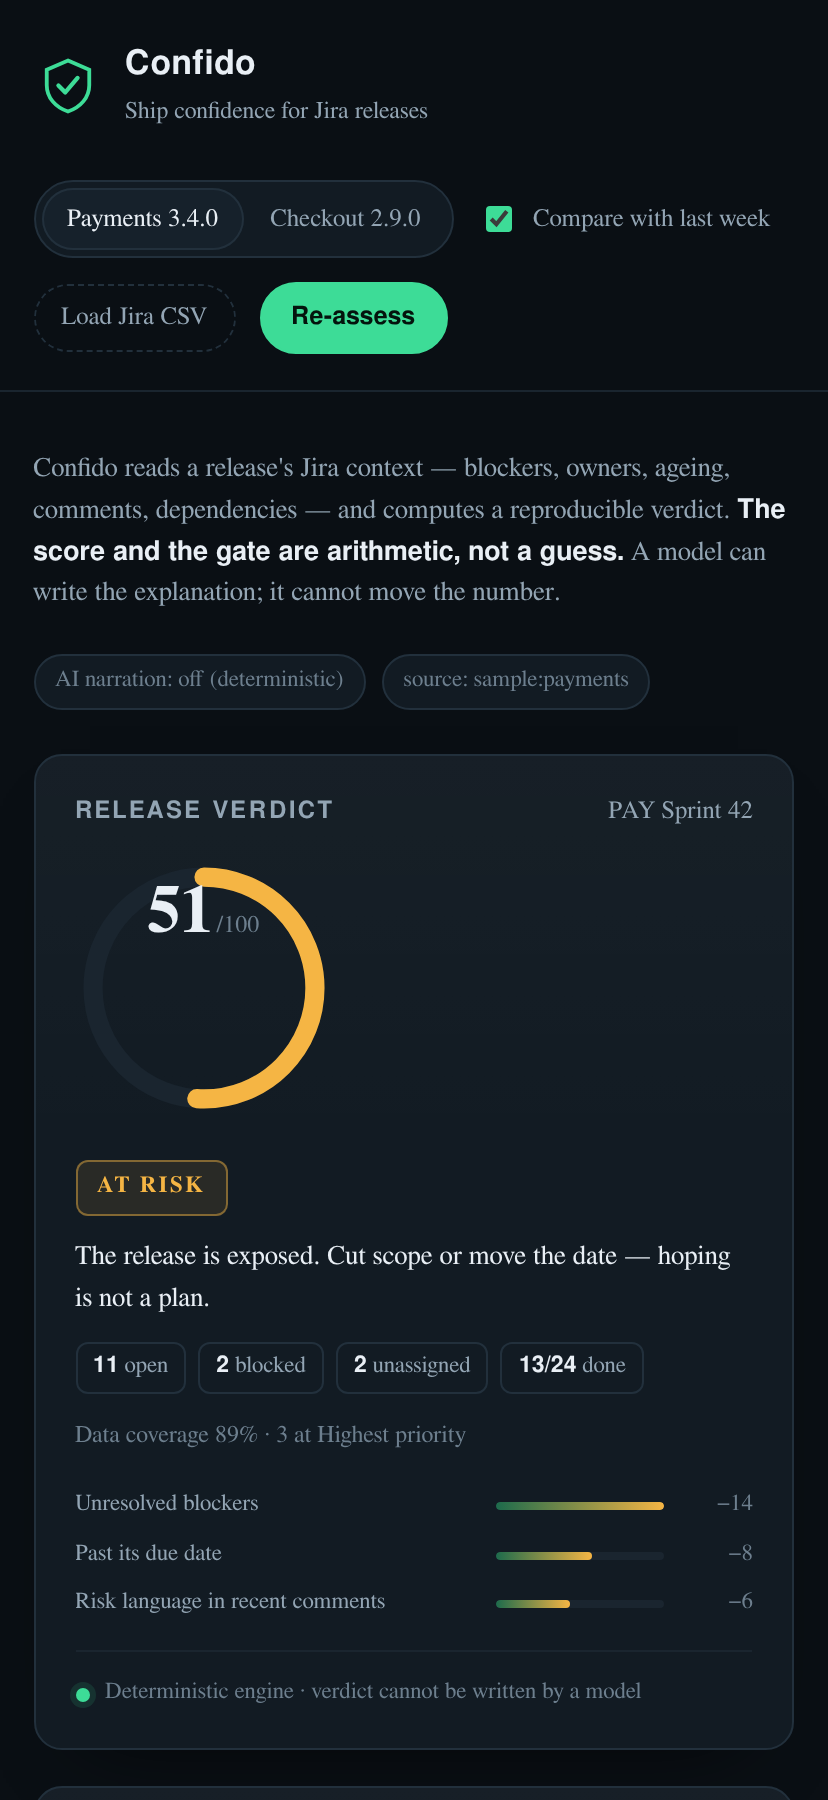
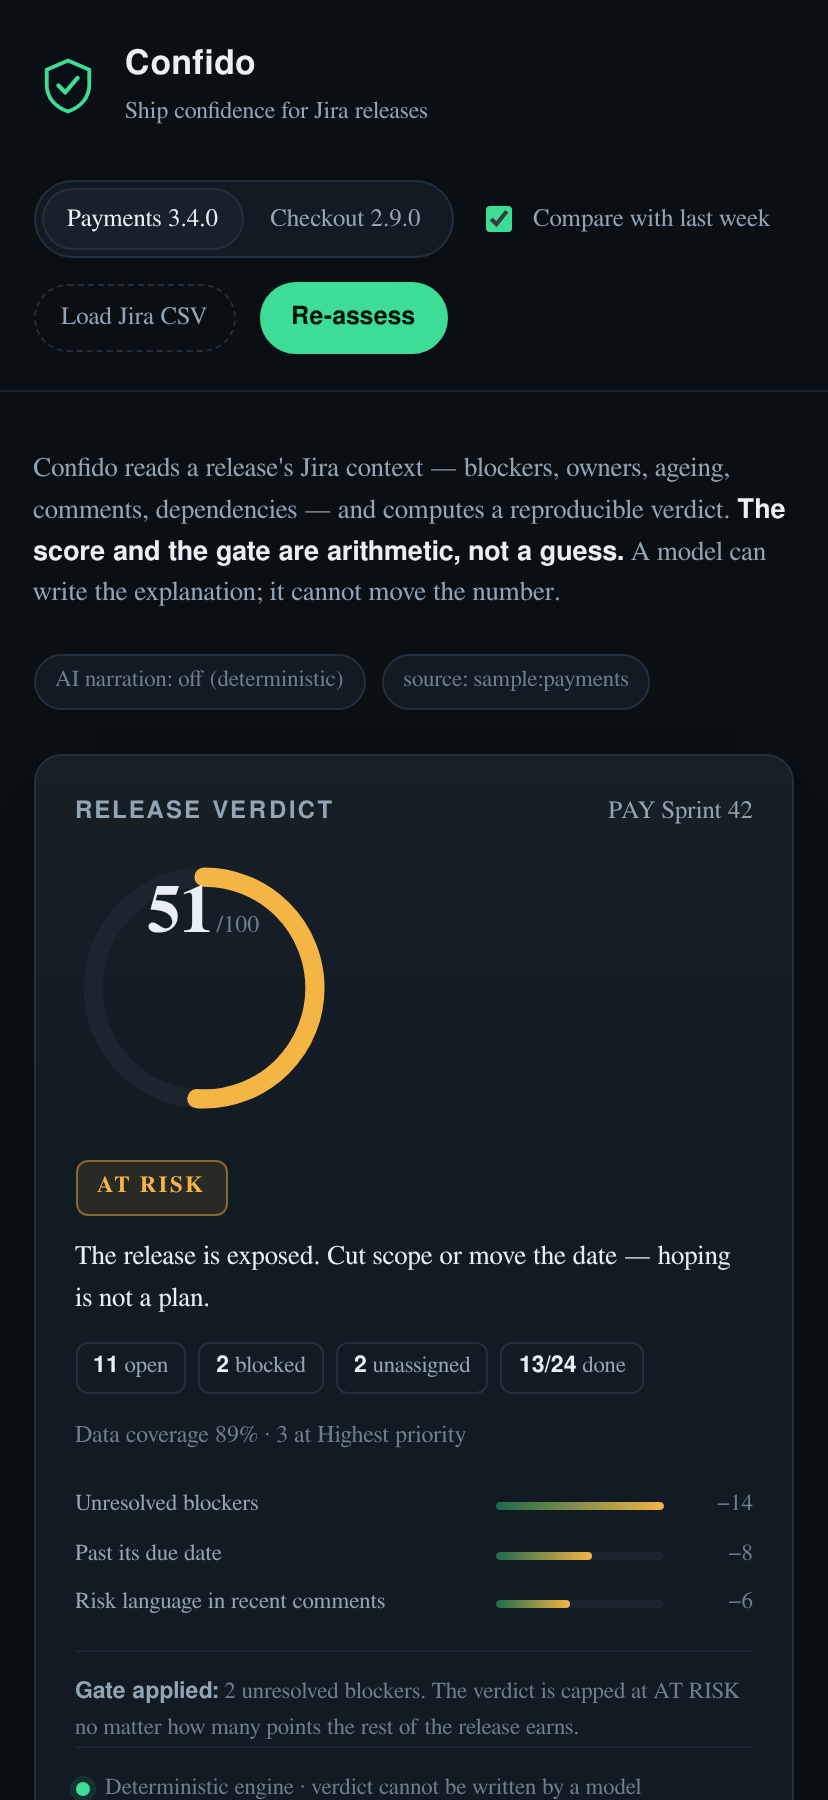
Polish brief wording, verdict gate panel, screenshots
- band-aware stakeholder paragraph and default next actions for healthy releases
- verdict card shows the applied gate and top drivers
- release-notes panel states how many open items are excluded
- refreshed submission screenshots and example brief

diff --git a/src/core/narrative.ts b/src/core/narrative.ts
@@ -58,7 +58,6 @@ function factsForModel(assessment: Assessment, scope: ReleaseScope): string {
 /** The no-model brief. This is what ships in the demo and in the tests. */
 export function deterministicNarrative(assessment: Assessment, scope: ReleaseScope): string {
   const { counts, score, bandLabel } = assessment;
-  const open = assessment.signals.reduce((sum, s) => sum + s.findings.length, 0);
 
   const lines: string[] = [];
   lines.push("## What is true now");
@@ -96,17 +95,32 @@ export function deterministicNarrative(assessment: Assessment, scope: ReleaseSco
 
   lines.push("");
   lines.push("## What to tell stakeholders");
-  lines.push(
-    counts.open === 0
-      ? `${scope.release.name} is complete in Jira. Nothing in the data blocks the cut, so the message is a ship date, not a risk update.`
-      : `${scope.release.name} is not ready to announce as finished: ${open} risk ${open === 1 ? "finding" : "findings"} across ${counts.open} open items, concentrated in ${assessment.signals
-          .filter((s) => s.severity === "critical" || s.severity === "high")
-          .slice(0, 2)
-          .map((s) => s.title.toLowerCase())
-          .join(" and ") || "open scope"}. The conditions in this brief are what changes the verdict — not more status updates.`,
-  );
+  lines.push(stakeholderLine(assessment, scope));
 
   return lines.join("\n");
+}
+
+function stakeholderLine(assessment: Assessment, scope: ReleaseScope): string {
+  const { counts, score, bandLabel } = assessment;
+  const name = scope.release.name;
+  if (counts.open === 0) {
+    return `${name} is complete in Jira. Nothing in the data blocks the cut, so the message is a ship date, not a risk update.`;
+  }
+  if (assessment.band === "go") {
+    return `${name} is on track: ${counts.done} of ${counts.total} items are done and no blocker, overdue date or unowned critical ticket remains. Announce the date as planned and say what is still being watched.`;
+  }
+  if (assessment.band === "conditional") {
+    return `${name} can ship if the ${assessment.conditions.length} conditions in this brief are true by the cut. That is a commitment with a deadline, not a status update.`;
+  }
+  if (assessment.band === "no_go") {
+    return `${name} should not be announced as shipping. At ${score}/100 with ${counts.blocked} blocked items, the honest message is a new date and a smaller scope.`;
+  }
+  const focus = assessment.signals
+    .filter((s) => s.severity === "critical" || s.severity === "high")
+    .slice(0, 2)
+    .map((s) => s.title.toLowerCase())
+    .join(" and ");
+  return `${name} is ${bandLabel.toLowerCase()} at ${score}/100: ${counts.open} open items, ${counts.blocked} blocked, ${counts.unassigned} without an owner${focus ? `, driven by ${focus}` : ""}. What changes the verdict is the conditions in this brief — not more status updates.`;
 }
 
 export async function buildNarrative(

diff --git a/web/app.js b/web/app.js
@@ -155,6 +155,18 @@ function render(bundle) {
     )
     .join("");
 
+  const criticalFindings = a.signals
+    .filter((s) => s.severity === "critical")
+    .reduce((n, s) => n + Math.round(s.penalty / s.weight), 0);
+  const gateNote = criticalFindings >= 2
+    ? `<strong>Gate applied:</strong> ${criticalFindings} unresolved blockers. The verdict is capped at ${esc(a.bandLabel)} no matter how many points the rest of the release earns.`
+    : criticalFindings === 1
+      ? `<strong>Gate applied:</strong> one unresolved blocker. The best possible verdict is SHIP WITH CONDITIONS.`
+      : a.conditions.length
+        ? `<strong>Before you ship:</strong> ${esc(a.conditions[0])}`
+        : `<strong>No gate applied:</strong> nothing in the data holds this release back.`;
+  $("gate").innerHTML = gateNote;
+
   $("ai-badge").textContent = bundle.ai.enabled ? `AI narration: ${bundle.ai.provider}` : "AI narration: off (deterministic)";
   $("ai-badge").className = `pill ${bundle.ai.enabled ? "pill-on" : "pill-muted"}`;
   $("source-badge").textContent = `source: ${a.source}`;

diff --git a/web/styles.css b/web/styles.css
@@ -244,6 +244,16 @@ main {
 .driver-bar span { display: block; height: 100%; border-radius: 2px; background: linear-gradient(90deg, var(--mint-dim), var(--amber)); }
 .driver-pts { text-align: right; font-variant-numeric: tabular-nums; color: var(--muted-2); }
 
+.gate {
+  margin-top: 14px;
+  padding-top: 12px;
+  border-top: 1px solid var(--line-soft);
+  font-size: 11.5px;
+  line-height: 1.5;
+  color: var(--muted-2);
+}
+.gate strong { color: var(--muted); font-weight: 650; }
+
 .dot { width: 7px; height: 7px; border-radius: 50%; background: var(--muted-2); flex: 0 0 auto; }
 .dot-ok { background: var(--mint); box-shadow: 0 0 0 3px rgba(61, 220, 151, 0.12); }
 

diff --git a/src/core/brief.ts b/src/core/brief.ts
@@ -63,6 +63,15 @@ export function buildNextActions(signals: Signal[]): string[] {
   if (actions.length === 0) {
     actions.push("No action needed from the risk engine. Keep the release notes and the rollout plan ready.");
   }
+  const fillers = [
+    "Freeze scope for this release and confirm the cut with the release manager.",
+    "Prepare the rollout and rollback checklist, including who is on call at the cut.",
+    "Send support a one-paragraph summary of what changes for users.",
+  ];
+  for (const filler of fillers) {
+    if (actions.length >= 3) break;
+    actions.push(filler);
+  }
   return actions;
 }
 

diff --git a/web/index.html b/web/index.html
@@ -79,6 +79,7 @@
             </div>
           </div>
           <div id="drivers" class="drivers" aria-label="Largest score deductions"></div>
+          <div id="gate" class="gate"></div>
           <footer class="card-foot">
             <span class="dot dot-ok"></span>
             <span id="engine-note">Deterministic engine · verdict cannot be written by a model</span>

diff --git a/docs/example-brief.md b/docs/example-brief.md
@@ -1,6 +1,6 @@
 # Payments 3.4.0 — ship confidence brief
 
-_Generated 2026-11-21T04:27:03.662Z by Confido 0.1.0 · source: sample:payments · evaluation time: 2026-11-20T18:00:00+09:00_
+_Generated 2026-11-21T04:30:21.453Z by Confido 0.1.0 · source: sample:payments · evaluation time: 2026-11-20T18:00:00+09:00_
 
 | | |
 | --- | --- |
@@ -24,7 +24,7 @@ _Generated 2026-11-21T04:27:03.662Z by Confido 0.1.0 · source: sample:payments 
 - Answer the concerns raised on PAY-1393, PAY-1414, PAY-1401 +3 more in-thread today.
 
 ## What to tell stakeholders
-Payments 3.4.0 is not ready to announce as finished: 18 risk findings across 11 open items, concentrated in unresolved blockers and past its due date. The conditions in this brief are what changes the verdict — not more status updates.
+Payments 3.4.0 is at risk at 51/100: 11 open items, 2 blocked, 2 without an owner, driven by unresolved blockers and past its due date. What changes the verdict is the conditions in this brief — not more status updates.
 
 ## Conditions to ship
 - [ ] Every blocker resolved or explicitly descoped (PAY-1401, PAY-1390).
